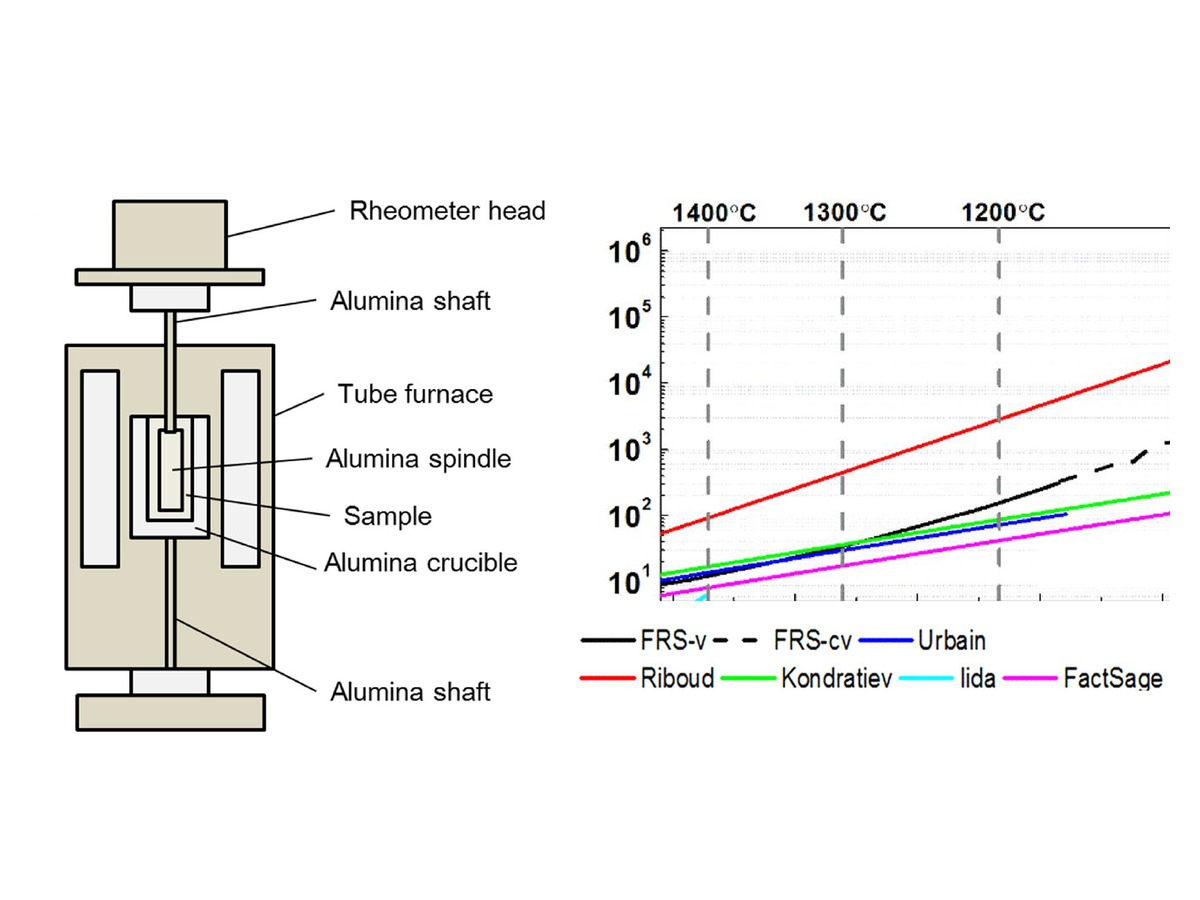
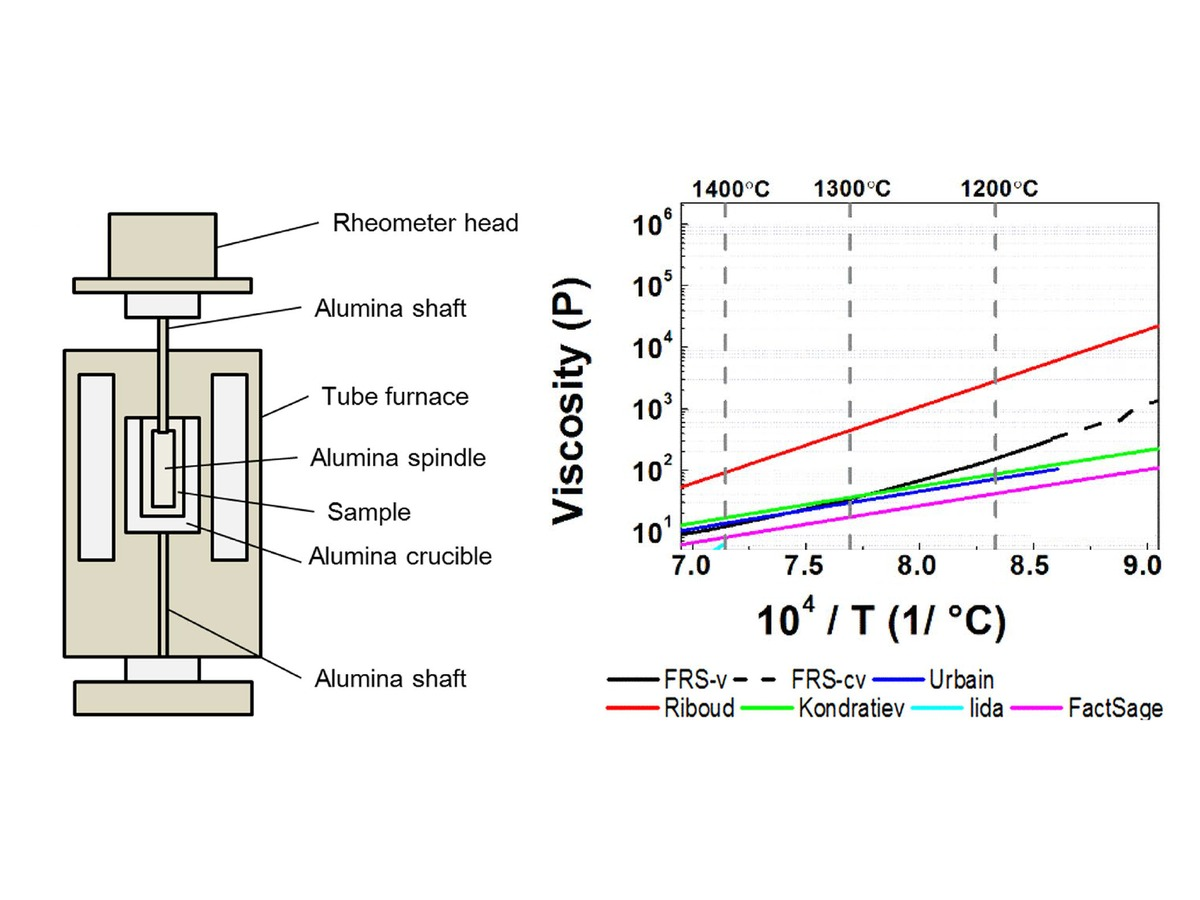
Add axis labels to publication thumbnail 16
Claude-Session: https://claude.ai/code/session_01C8otz9xRUX7zpZLP7SNUXe

diff --git a/index.html b/index.html
@@ -407,6 +407,6 @@
 <script id="imgdata" type="application/json">{"logo": "assets/img/logo.png", "concept": "assets/img/concept.jpg", "scope": "assets/img/scope.jpg?v=20261005", "pillars": "assets/img/pillars.jpg", "qr": "assets/img/qr.jpg", "pi": "assets/img/pi.jpg?v=20261010", "m_bincy": "assets/img/m_bincy.jpg", "m_ganji": "assets/img/m_ganji.jpg", "m_prabha": "assets/img/m_prabha.jpg", "m_ksw": "assets/img/m_ksw.jpg", "m_kjb": "assets/img/m_kjb.jpg", "m_khn": "assets/img/m_khn.jpg", "m_cde": "assets/img/m_cde.jpg", "m_smt": "assets/img/m_smt.jpg", "m_shj": "assets/img/m_shj.jpg", "m_ldg": "assets/img/m_ldg.jpg", "m_lsh": "assets/img/m_lsh.jpg", "m_jsw": "assets/img/m_jsw.jpg", "sw_ansys": "assets/img/sw_ansys.png", "sw_fluent": "assets/img/sw_fluent.png", "sw_comsol": "assets/img/sw_comsol.png", "sw_digimat": "assets/img/sw_digimat.png", "sw_geodict": "assets/img/sw_geodict.png", "sw_hepigans": "assets/img/sw_hepigans.png", "sw_msstudio": "assets/img/sw_msstudio.png", "sw_piano": "assets/img/sw_piano.png", "sw_vasp": "assets/img/sw_vasp.png", "n_grad": "assets/img/n_grad.jpg", "n_cover": "assets/img/n_cover.jpg", "n_plat": "assets/img/n_plat.jpg?v=20260905", "n_award": "assets/img/n_award.jpg", "n_geo": "assets/img/n_geo.jpg", "n_qd": "assets/img/n_qd.jpg", "n_marine": "assets/img/n_marine.jpg", "n_hydro": "assets/img/pub/20.jpg", "n_amds": "assets/img/n_amds.jpg", "n_etamds": "assets/img/n_etamds.jpg", "n_mico": "assets/img/n_mico.jpg", "n_halide": "assets/img/n_halide.jpg?v=20260905", "n_tribo": "assets/img/pub/13.jpg", "m_kgw": "assets/img/m_kgw.jpg", "m_gf": "assets/img/m_gf.jpg", "m_uk": "assets/img/m_uk.jpg"}</script>
 <script id="galdata" type="application/json">[{"id": "e2609b", "date": "2026.09.30–10.02", "title": "Korean Ceramic Society", "note": "추계학술대회", "cover": "assets/img/gallery/e2609b-cover.jpg", "shots": ["assets/img/gallery/e2609b-01.jpg", "assets/img/gallery/e2609b-02.jpg"]}, {"id": "e2609", "date": "2026.09.08", "title": "Welcome, Daeun!", "note": "최다은 연구원 환영회", "cover": "assets/img/gallery/e2609-cover.jpg", "shots": ["assets/img/gallery/e2609-01.jpg"]}, {"id": "e2606", "date": "2026.06.21–24", "title": "CIMTEC 2026 · 10th Forum on New Materials", "note": "Perugia, Italy", "cover": "assets/img/gallery/e2606-cover.jpg", "shots": ["assets/img/gallery/e2606-01.jpg", "assets/img/gallery/e2606-02.jpg", "assets/img/gallery/e2606-04.jpg", "assets/img/gallery/e2606-03.jpg"]}, {"id": "e2605b", "date": "2026.05.15", "title": "Teachers' Day", "note": "스승의 날", "cover": "assets/img/gallery/e2605b-cover.jpg", "shots": ["assets/img/gallery/e2605b-02.jpg"]}, {"id": "e2605a", "date": "2026.05.08", "title": "Homecoming", "note": "졸업생 방문", "cover": "assets/img/gallery/e2605a-cover.jpg", "shots": ["assets/img/gallery/e2605a-14.jpg"]}, {"id": "e2604", "date": "2026.04.08–10", "title": "Korean Ceramic Society", "note": "춘계학술대회", "cover": "assets/img/gallery/e2604-cover.jpg", "shots": ["assets/img/gallery/e2604-08.jpg", "assets/img/gallery/e2604-01.jpg", "assets/img/gallery/e2604-06.jpg"]}, {"id": "e2601", "date": "2026.01.09", "title": "Birthday", "note": "", "cover": "assets/img/gallery/e2601-cover.jpg", "shots": ["assets/img/gallery/e2601-01.jpg"]}, {"id": "e2511", "date": "2025.11.19–22", "title": "39th Korea–Japan Seminar on Ceramics", "note": "Oriental Hotel, Jeju", "cover": "assets/img/gallery/e2511-cover.jpg", "shots": ["assets/img/gallery/e2511-01.jpg", "assets/img/gallery/e2511-02.jpg", "assets/img/gallery/e2511-04.jpg"]}, {"id": "e2506", "date": "2025.06.02", "title": "Congrats, Donggeon!", "note": "이동건 취업 축하 파티", "cover": "assets/img/gallery/e2506-cover.jpg", "shots": ["assets/img/gallery/e2506-01.jpg"]}, {"id": "e2505", "date": "2025.05.15", "title": "Teachers' Day", "note": "스승의 날", "cover": "assets/img/gallery/e2505-cover.jpg", "shots": ["assets/img/gallery/e2505-03.jpg", "assets/img/gallery/e2505-05.jpg"]}, {"id": "e2503", "date": "2025.03.13", "title": "Group meeting", "note": "", "cover": "assets/img/gallery/e2503-cover.jpg", "shots": ["assets/img/gallery/e2503-01.jpg"]}, {"id": "e2502b", "date": "2025.02.27", "title": "Welcome Dr. Karan", "note": "환영회", "cover": "assets/img/gallery/e2502b-cover.jpg", "shots": ["assets/img/gallery/e2502b-01.jpg", "assets/img/gallery/e2502b-02.jpg"]}, {"id": "e2502a", "date": "2025.02.05–07", "title": "Nature Conference: Materials for AI", "note": "KAIST", "cover": "assets/img/gallery/e2502a-cover.jpg", "shots": ["assets/img/gallery/e2502a-01.jpg"]}, {"id": "e2501", "date": "2025.01.10", "title": "Birthday", "note": "", "cover": "assets/img/gallery/e2501-cover.jpg", "shots": ["assets/img/gallery/e2501-01.jpg"]}, {"id": "e2410", "date": "2024.10.16–18", "title": "Korean Ceramic Society", "note": "추계학술대회", "cover": "assets/img/gallery/e2410-cover.jpg", "shots": ["assets/img/gallery/e2410-04.jpg", "assets/img/gallery/e2410-01.jpg", "assets/img/gallery/e2410-02.jpg"]}, {"id": "e2409", "date": "2024.09.22–27", "title": "Multiscale Materials Modeling (MMM11)", "note": "", "cover": "assets/img/gallery/e2409-cover.jpg", "shots": ["assets/img/gallery/e2409-01.jpg", "assets/img/gallery/e2409-02.jpg", "assets/img/gallery/e2409-09.jpg", "assets/img/gallery/e2409-03.jpg", "assets/img/gallery/e2409-04.jpg", "assets/img/gallery/e2409-05.jpg", "assets/img/gallery/e2409-06.jpg"]}, {"id": "e2403", "date": "2024.03.15–16", "title": "Membership Training", "note": "Geoje", "cover": "assets/img/gallery/e2403-cover.jpg", "shots": ["assets/img/gallery/emt-01.jpg"]}, {"id": "e2305", "date": "2023.05.19–20", "title": "Membership Training", "note": "Changwon", "cover": "assets/img/gallery/e2305-cover.jpg", "shots": ["assets/img/gallery/emt-06.jpg", "assets/img/gallery/emt-02.jpg"]}]</script>
 <script id="pubdata" type="application/json">[{"id": 62, "date": "2026-10-01", "year": 2026, "title": "Flavonoid-coordinated NiCo bimetallic complex for interfacial electronic reconstruction and d-band engineering in BiVO4 toward sustainable solar water oxidation", "venue": "Journal of Energy Chemistry", "jif": 15.6, "q": "Q1", "cites": 0, "role": "co-author", "pos": [8, 10], "doi": "https://doi.org/10.1016/j.jechem.2026.06.082", "authors": [{"n": "Pratik Mane", "lab": false, "m": ""}, {"n": "Sampath Prabhakaran", "lab": true, "m": ""}, {"n": "Vishal Burungale", "lab": false, "m": ""}, {"n": "Hyojung Bae", "lab": false, "m": ""}, {"n": "Jiwon Heo", "lab": false, "m": ""}, {"n": "Chaewon Seong", "lab": false, "m": ""}, {"n": "Dhanashri Burungale", "lab": false, "m": ""}, {"n": "Hyunseok Ko", "lab": true, "m": ""}, {"n": "Sang Hyun Lee", "lab": false, "m": ""}, {"n": "Jun-Seok Ha", "lab": false, "m": ""}], "fig": 1}, {"id": 61, "date": "2026-08-25", "year": 2026, "title": "Effect of fumed silica content on the microstructural evolution and mechanical properties of metakaolin-based basalt fiber-reinforced geopolymer matrix composites", "venue": "Advanced Composite Materials", "jif": null, "q": null, "cites": 0, "role": "co-corresponding", "pos": [5, 5], "doi": "https://doi.org/10.1080/09243046.2026.2721819", "authors": [{"n": "Sanghun Lee", "lab": true, "m": "†"}, {"n": "Shinwoo Kang", "lab": true, "m": "†"}, {"n": "Hyung Mi Lim", "lab": false, "m": ""}, {"n": "Seog-Young Yoon", "lab": false, "m": "*"}, {"n": "Hyunseok Ko", "lab": true, "m": "*"}], "fig": 1}, {"id": 60, "date": "2026-11-01", "year": 2026, "title": "Composition and Processing Descriptors Govern Electroceramic Property Prediction: A Multi-Modal Interpretable Framework for BaTiO3-Based Ceramics", "venue": "Journal of Materiomics", "jif": 10.6, "q": "Q1", "cites": 0, "role": "co-corresponding", "pos": [6, 7], "doi": "https://doi.org/10.1016/j.jmat.2026.101282", "authors": [{"n": "Saman khalid", "lab": false, "m": "†"}, {"n": "Muhammad Faseeh", "lab": false, "m": "†"}, {"n": "Murad Ali Khan", "lab": false, "m": ""}, {"n": "Hyejeong Song", "lab": true, "m": ""}, {"n": "Syed Shehryar Ali Naqvi", "lab": false, "m": ""}, {"n": "Hyunseok Ko", "lab": true, "m": "*"}, {"n": "Do-Hyeun Kim", "lab": false, "m": "*"}], "fig": 1}, {"id": 59, "date": "2026-08-01", "year": 2026, "title": "Multi-model machine learning framework for predicting material properties of BaTiO3-based ferroelectric ceramics", "venue": "Materials & Design", "jif": 8.2, "q": "Q1", "cites": 0, "role": "co-corresponding", "pos": [6, 7], "doi": "https://doi.org/10.1016/j.matdes.2026.116418", "authors": [{"n": "Saman Khalid", "lab": false, "m": "†"}, {"n": "Muhammad Faseeh", "lab": false, "m": ""}, {"n": "Hyejeong Song", "lab": true, "m": ""}, {"n": "Murad Ali Khan", "lab": false, "m": ""}, {"n": "Syed Shehryar Ali Naqvi", "lab": false, "m": ""}, {"n": "Hyunseok Ko", "lab": true, "m": "*"}, {"n": "Do-Hyeon Kim", "lab": false, "m": "*"}], "fig": 1}, {"id": 58, "date": "2026-08-01", "year": 2026, "title": "Reinforced surface reactivity via incorporation of metal catalyst onto perovskite oxide for CO2 reduction", "venue": "Materials Today Energy", "jif": 8.1, "q": "Q1", "cites": 0, "role": "co-corresponding", "pos": [9, 10], "doi": "https://doi.org/10.1016/j.mtener.2026.102327", "authors": [{"n": "Sang Won Lee", "lab": false, "m": "†"}, {"n": "Sampath Prabhakaran", "lab": true, "m": "†"}, {"n": "Tae Heon Nam", "lab": false, "m": ""}, {"n": "Geunwoo Kim", "lab": true, "m": ""}, {"n": "Jae Hoon Lim", "lab": false, "m": ""}, {"n": "Hyejeong Song", "lab": true, "m": ""}, {"n": "Sungtae Park", "lab": false, "m": ""}, {"n": "Jong Hyeok Park", "lab": false, "m": "*"}, {"n": "Hyunseok Ko", "lab": true, "m": "*"}, {"n": "Tae Ho Shin", "lab": false, "m": "*"}], "fig": 1}, {"id": 57, "date": "2026-12-01", "year": 2026, "title": "High Polarity Doping of CoFe Layered Hydroxides: Bifunctional and Corrosion-Resistant Anion Exchange Membrane Seawater Electrolyzers", "venue": "Nano-Micro Letters", "jif": 38.5, "q": "Q1", "cites": 2, "role": "co-author", "pos": [6, 11], "doi": "https://doi.org/10.1007/s40820-026-02230-8", "authors": [{"n": "Anandhan Ayyappan Saj", "lab": false, "m": "†"}, {"n": "Sampath Prabhakaran", "lab": true, "m": "†"}, {"n": "Moshin Rasool", "lab": false, "m": ""}, {"n": "Kousik Bhunia", "lab": false, "m": ""}, {"n": "Dongho Lee", "lab": false, "m": ""}, {"n": "Hyunseok Ko", "lab": true, "m": ""}, {"n": "Tukaram D. Dongale", "lab": false, "m": ""}, {"n": "Muthukumar Perumalsamy", "lab": false, "m": ""}, {"n": "Arul Saravanan Raaju Sundhar", "lab": false, "m": ""}, {"n": "Do Hwan Kim", "lab": false, "m": "*"}, {"n": "Sang Jae Kim", "lab": false, "m": "*"}], "fig": 1}, {"id": 56, "date": "2026-08-01", "year": 2026, "title": "Low temperature/low-pressure fabrication of oxide/oxide ceramic matrix composites with excellent mechanical properties and stealth capabilities", "venue": "Advanced Composites and Hybrid Materials", "jif": 15.5, "q": "Q1", "cites": 0, "role": "co-author", "pos": [3, 7], "doi": "https://doi.org/10.1007/s42114-026-01816-5", "authors": [{"n": "Shanigaram Mallesh", "lab": false, "m": "†"}, {"n": "Dong-Jun Hong", "lab": false, "m": ""}, {"n": "Hyunseok Ko", "lab": true, "m": ""}, {"n": "Sanghun Lee", "lab": true, "m": ""}, {"n": "Chae-Hwan Lim", "lab": false, "m": ""}, {"n": "Won-Ho Choi", "lab": false, "m": ""}, {"n": "Young-Woo Nam", "lab": false, "m": "*"}], "fig": 1}, {"id": 55, "date": "2026-06-17", "year": 2026, "title": "Mechanistic insights into vacancy-driven activation and dissociation of hydrogen peroxide on Ti3C2O2 MXene in water", "venue": "Nanoscale Advances", "jif": 6.3, "q": "Q2", "cites": 0, "role": "corresponding", "pos": [2, 2], "doi": "https://doi.org/10.1039/d5na00962f", "authors": [{"n": "Masoud Darvish Ganji", "lab": true, "m": "†"}, {"n": "Hyunseok Ko", "lab": true, "m": "*"}], "fig": 1, "sel": 1}, {"id": 54, "date": "2026-06-01", "year": 2026, "title": "Bridging the theoretical gap between electronic structure and dynamic stability: An integrated computational framework for ZnO sheet-based chemical warfare agent sensors", "venue": "Surfaces and Interfaces", "jif": 6.0, "q": "Q2", "cites": 5, "role": "co-corresponding", "pos": [3, 3], "doi": "https://doi.org/10.1016/j.surfin.2026.109196", "authors": [{"n": "Masoud Darvish Ganji", "lab": true, "m": "†"}, {"n": "Mahyar Rezvani", "lab": false, "m": ""}, {"n": "Hyunseok Ko", "lab": true, "m": "*"}], "fig": 1}, {"id": 53, "date": "2026-07-01", "year": 2026, "title": "Numerical analysis and optimization of horizontal MOCVD reactor design parameters for uniform GaN thin films", "venue": "Journal of the Korean Ceramic Society", "jif": 4.4, "q": "Q1", "cites": 0, "role": "co-corresponding", "pos": [3, 3], "doi": "https://doi.org/10.1007/s43207-026-00602-9", "authors": [{"n": "Haneul Kim", "lab": true, "m": "†"}, {"n": "Roy Byung Kyu Chung", "lab": false, "m": ""}, {"n": "Hyunseok Ko", "lab": true, "m": "*"}], "fig": 1}, {"id": 52, "date": "2026-03-01", "year": 2026, "title": "Processing-structure-property prediction in polycrystalline BaTiO3 ceramics using experimental and computational data fusion", "venue": "Materials Today Communications", "jif": 4.9, "q": "Q2", "cites": 1, "role": "co-corresponding", "pos": [6, 7], "doi": "https://doi.org/10.1016/j.mtcomm.2026.115004", "authors": [{"n": "Muhammad Faseeh", "lab": false, "m": "†"}, {"n": "Hyejeong Song", "lab": true, "m": ""}, {"n": "Murad Ali Khan", "lab": false, "m": ""}, {"n": "Syed Shehryar Ali Naqvi", "lab": false, "m": ""}, {"n": "Saman Khalid", "lab": false, "m": ""}, {"n": "Hyunseok Ko", "lab": true, "m": "*"}, {"n": "Do-Hyeun Kim", "lab": false, "m": "*"}], "fig": 1}, {"id": 51, "date": "2026-03-01", "year": 2026, "title": "Hierarchically structured Cu-Fe-S nanomaterials as dual-functional catalysts for enhanced hydrogen evolution and photocatalytic dye degradation", "venue": "Journal of Alloys and Compounds", "jif": 6.7, "q": "Q2", "cites": 0, "role": "co-corresponding", "pos": [7, 8], "doi": "https://doi.org/10.1016/j.jallcom.2026.187031", "authors": [{"n": "C.K. Sushma", "lab": false, "m": "†"}, {"n": "Hyeon Woo Kim", "lab": false, "m": ""}, {"n": "Maheshkumar V", "lab": false, "m": ""}, {"n": "Anju Sebastian", "lab": false, "m": ""}, {"n": "Masoud Darvish Ganji", "lab": true, "m": ""}, {"n": "Sung Beom Cho", "lab": false, "m": ""}, {"n": "Hyunseok Ko", "lab": true, "m": "*"}, {"n": "Vidhya Bhojan", "lab": false, "m": "*"}], "fig": 1}, {"id": 50, "date": "2026-02-01", "year": 2026, "title": "First-Principles Models of Triboelectrification", "venue": "Small Methods", "jif": 8.7, "q": "Q1", "cites": 0, "role": "co-author", "pos": [3, 6], "doi": "https://doi.org/10.1002/smtd.202501782", "authors": [{"n": "Giulio Fatti", "lab": true, "m": "†"}, {"n": "John Cavin", "lab": false, "m": ""}, {"n": "Hyunseok Ko", "lab": true, "m": ""}, {"n": "Rohan Mishra", "lab": false, "m": ""}, {"n": "Daniele Dini", "lab": false, "m": ""}, {"n": "Sung Beom Cho", "lab": false, "m": ""}], "fig": 1}, {"id": 49, "date": "2026-01-02", "year": 2026, "title": "Toward efficient dielectric material discovery: a comparative evaluation of Transformer and AutoML-based inverse learning", "venue": "Journal of Asian Ceramic Societies", "jif": 1.8, "q": "Q3", "cites": 1, "role": "co-corresponding", "pos": [5, 6], "doi": "https://doi.org/10.1080/21870764.2025.2570561", "authors": [{"n": "Murad Ali Khan", "lab": false, "m": "†"}, {"n": "Hyejeong Song", "lab": true, "m": ""}, {"n": "Syed Shehryar Ali Naqvi", "lab": false, "m": ""}, {"n": "Muhammad Faseeh", "lab": false, "m": ""}, {"n": "Hyunseok Ko", "lab": true, "m": "*"}, {"n": "Do-Hyeun Kim", "lab": false, "m": "*"}], "fig": 1}, {"id": 48, "date": "2025-11-01", "year": 2025, "title": "Boosting the efficiency and stability of cerium-doped trimetallic phosphides for overall water splitting", "venue": "Chemical Engineering Journal", "jif": 12.5, "q": "Q1", "cites": 5, "role": "co-author", "pos": [5, 8], "doi": "https://doi.org/10.1016/j.cej.2025.169404", "authors": [{"n": "Mai Mai", "lab": false, "m": "†"}, {"n": "Sampath Prabhakaran", "lab": true, "m": ""}, {"n": "Huyen Thi Dao", "lab": false, "m": ""}, {"n": "Lan Nguyen", "lab": false, "m": ""}, {"n": "Hyunseok Ko", "lab": true, "m": ""}, {"n": "Young Sun Mok", "lab": false, "m": ""}, {"n": "Van Hien Hoa", "lab": false, "m": "*"}, {"n": "Do Hwan Kim", "lab": false, "m": "*"}], "fig": 1}, {"id": 47, "date": "2025-10-28", "year": 2025, "title": "Engineering multifunctionality in gallium oxide: unveiling novel structural, electronic, and opto-mechanical attributes of gadolinium-doped β-Ga2O3 through advanced first-principles design", "venue": "RSC Advances", "jif": 6.1, "q": "Q2", "cites": 4, "role": "corresponding", "pos": [2, 2], "doi": "https://doi.org/10.1039/d5ra05763a", "authors": [{"n": "Masoud Darvish Ganji", "lab": true, "m": "†"}, {"n": "Hyunseok Ko", "lab": true, "m": "*"}], "fig": 1}, {"id": 46, "date": "2025-09-01", "year": 2025, "title": "Rational material design of chemically inert oxide anode coating layers for lithium metal and all-solid-state batteries", "venue": "Applied Surface Science Advances", "jif": 10.0, "q": "Q1", "cites": 0, "role": "co-author", "pos": [6, 10], "doi": "https://doi.org/10.1016/j.apsadv.2025.100842", "authors": [{"n": "Dong Won Jeon", "lab": false, "m": "†"}, {"n": "Wootaek Choi", "lab": false, "m": ""}, {"n": "Jun Hyuk Kang", "lab": false, "m": ""}, {"n": "Hyeon Woo Kim", "lab": false, "m": ""}, {"n": "Min Sung Kang", "lab": false, "m": ""}, {"n": "Woongchan Kim", "lab": false, "m": ""}, {"n": "Han Uk Lee", "lab": false, "m": ""}, {"n": "Hyunseok Ko", "lab": true, "m": ""}, {"n": "Patrick Joohyun Kim", "lab": false, "m": "*"}, {"n": "Sung Beom Cho", "lab": false, "m": "*"}], "fig": 1}, {"id": 45, "date": "2025-06-30", "year": 2025, "title": "초저궤도 우주환경에서 자기 강화 원자산소 저항 산화층이 형성된 산화물/산화물 세라믹 복합재 구조의 손상 거동 평가", "venue": "복합재료 (Composites Research), 한국복합재료학회", "jif": null, "q": null, "cites": 0, "role": "co-author", "pos": [6, 8], "doi": "https://doi.org/10.7234/composres.2025.38.3.333", "authors": [{"n": "Chae-Hwan Lim", "lab": false, "m": "†"}, {"n": "Dong-Jun Hong", "lab": false, "m": ""}, {"n": "Hanna Jang", "lab": false, "m": ""}, {"n": "Seung-Hyeon Kang", "lab": false, "m": ""}, {"n": "Sang-Hoon Lee", "lab": true, "m": ""}, {"n": "Hyunseok Ko", "lab": true, "m": ""}, {"n": "Won-Ho Choi", "lab": false, "m": ""}, {"n": "Young-Woo Nam", "lab": false, "m": ""}], "fig": 1}, {"id": 44, "date": "2025-09-01", "year": 2025, "title": "First-principles investigation of Mo-doped β-Ga2O3: Prospects for visible light technologies and spintronics", "venue": "Physica B: Condensed Matter", "jif": 3.2, "q": "Q2", "cites": 8, "role": "corresponding", "pos": [5, 5], "doi": "https://doi.org/10.1016/j.physb.2025.417334", "authors": [{"n": "Masoud Darvish Ganji", "lab": true, "m": "†"}, {"n": "Hyejeong Song", "lab": true, "m": ""}, {"n": "Ji-Hyeon Park", "lab": false, "m": ""}, {"n": "Dae-Woo Jeon", "lab": false, "m": ""}, {"n": "Hyunseok Ko", "lab": true, "m": "*"}], "fig": 1}, {"id": 43, "date": "2025-03-12", "year": 2025, "title": "Accentuating the ambient curing behavior of geopolymers: metamodel-guided optimization for fast-curing geopolymers with high flexural strength", "venue": "Digital Discovery", "jif": 7.1, "q": "Q1", "cites": 4, "role": "corresponding", "pos": [5, 6], "doi": "https://doi.org/10.1039/d4dd00217b", "authors": [{"n": "Kyungwon Kim", "lab": true, "m": "†"}, {"n": "Hyejeong Song", "lab": true, "m": "†"}, {"n": "Sanghun Lee", "lab": true, "m": ""}, {"n": "Hyung-Kyu Cho", "lab": false, "m": ""}, {"n": "Hyung-Mi Lim", "lab": false, "m": ""}, {"n": "Hyunseok Ko", "lab": true, "m": "*"}], "fig": 1}, {"id": 42, "date": "2025-01-14", "year": 2025, "title": "First-Principle Insights into Positive Triboelectrification of Polyoxymethylene Through Homolytic Bond Rupture", "venue": "Nanoenergy Advances", "jif": 4.2, "q": "Q3", "cites": 2, "role": "co-author", "pos": [2, 3], "doi": "https://doi.org/10.3390/nanoenergyadv5010001", "authors": [{"n": "Giulio Fatti", "lab": true, "m": "†*"}, {"n": "Hyunseok Ko", "lab": true, "m": ""}, {"n": "Sung Beom Cho", "lab": false, "m": ""}], "fig": 1}, {"id": 41, "date": "2025-02-01", "year": 2025, "title": "Ultrahigh-gain colloidal quantum dot infrared avalanche photodetectors", "venue": "Nature Nanotechnology", "jif": 37.5, "q": "Q1", "cites": 47, "role": "first", "pos": [3, 9], "doi": "https://doi.org/10.1038/s41565-024-01831-x", "authors": [{"n": "Byeongsu Kim", "lab": false, "m": "†"}, {"n": "Sang Yeon Lee", "lab": false, "m": "†"}, {"n": "Hyunseok Ko", "lab": true, "m": "†"}, {"n": "Jihyung Lee", "lab": false, "m": ""}, {"n": "Hyejeong Song", "lab": true, "m": ""}, {"n": "Sungjun Cho", "lab": false, "m": ""}, {"n": "Min-Ho Lee", "lab": false, "m": ""}, {"n": "Jung-Yong Lee", "lab": false, "m": ""}], "fig": 1, "sel": 1}, {"id": 40, "date": "2025-04-01", "year": 2025, "title": "Unveiling the Aluminum Doping Effects of In-Situ Transmogrified Dual-LDH Heterostructure and Its Fermi-Level Alignment to Water Splitting Potentials", "venue": "Advanced Energy Materials", "jif": 25.5, "q": "Q1", "cites": 39, "role": "co-author", "pos": [10, 11], "doi": "https://doi.org/10.1002/aenm.202403889", "authors": [{"n": "Nandapriya Manivelan", "lab": false, "m": "†"}, {"n": "Junji Piao", "lab": false, "m": ""}, {"n": "Jaekook Kim", "lab": false, "m": ""}, {"n": "Seunghwa Lee", "lab": false, "m": ""}, {"n": "Youngji Kim", "lab": false, "m": ""}, {"n": "Vaiyapuri Soundharrajan", "lab": false, "m": ""}, {"n": "Min-Kyu Son", "lab": false, "m": ""}, {"n": "Amir Humayun", "lab": false, "m": ""}, {"n": "Masoud Darvish Ganji", "lab": true, "m": ""}, {"n": "Hyunseok Ko", "lab": true, "m": ""}, {"n": "Kandasamy Prabakar", "lab": false, "m": ""}], "fig": 1}, {"id": 39, "date": "2025-01-01", "year": 2025, "title": "Machine learning-enhanced design of lead-free halide perovskite materials using density functional theory", "venue": "Current Applied Physics", "jif": 2.8, "q": "Q3", "cites": 7, "role": "co-corresponding", "pos": null, "doi": "https://doi.org/10.1016/j.cap.2024.10.012", "authors": [{"n": "Upendra Kumar", "lab": true, "m": "†"}, {"n": "Hyeon Woo Kim", "lab": false, "m": "†"}, {"n": "Gyanendra Kumar Maurya", "lab": false, "m": ""}, {"n": "Bincy Babu Raj", "lab": true, "m": ""}, {"n": "Sobhit Singh", "lab": false, "m": ""}, {"n": "Ajay Kumar Kushwaha", "lab": false, "m": ""}, {"n": "Sung Beom Cho", "lab": false, "m": "*"}, {"n": "Hyunseok Ko", "lab": true, "m": "*"}], "fig": 1}, {"id": 38, "date": "2024-11-01", "year": 2024, "title": "Suppressing Hole Accumulation Through Sub-Nanometer Dipole Interfaces in Hybrid Perovskite/Organic Solar Cells for Boosting Near-Infrared Photon Harvesting", "venue": "Advanced Materials", "jif": 29.1, "q": "Q1", "cites": 22, "role": "co-author", "pos": [9, 13], "doi": "https://doi.org/10.1002/adma.202411015", "authors": [{"n": "Min-Ho Lee", "lab": false, "m": "†"}, {"n": "Min Seok Kim", "lab": false, "m": ""}, {"n": "Yu Jin Lee", "lab": false, "m": ""}, {"n": "Byeongsu Kim", "lab": false, "m": ""}, {"n": "Ju-Hyeon Kim", "lab": false, "m": ""}, {"n": "Chungryeol Lee", "lab": false, "m": ""}, {"n": "Jihyung Lee", "lab": false, "m": ""}, {"n": "Dong-Jun Kim", "lab": false, "m": ""}, {"n": "Hyunseok Ko", "lab": true, "m": ""}, {"n": "Masoud Darvish Ganji", "lab": true, "m": ""}, {"n": "Kwanghee Lee", "lab": false, "m": ""}, {"n": "Woojae Kim", "lab": false, "m": ""}, {"n": "Jung-Yong Lee", "lab": false, "m": ""}], "fig": 1}, {"id": 37, "date": "2024-12-10", "year": 2024, "title": "Overcoming the limitations of atomic-scale simulations on semiconductor catalysis with changing Fermi level and surface treatment", "venue": "Journal of Materials Chemistry A", "jif": 9.2, "q": "Q1", "cites": 4, "role": "co-corresponding", "pos": [12, 14], "doi": "https://doi.org/10.1039/d4ta03595j", "authors": [{"n": "Seulgi ji", "lab": false, "m": "†"}, {"n": "Dong Won Jeon", "lab": false, "m": ""}, {"n": "Junghyun Choi", "lab": false, "m": ""}, {"n": "Haneol Cho", "lab": false, "m": ""}, {"n": "Bo-In Park", "lab": false, "m": ""}, {"n": "Ilpyo Roh", "lab": false, "m": ""}, {"n": "Hyungil Choi", "lab": false, "m": ""}, {"n": "Chansoo Kim", "lab": false, "m": ""}, {"n": "Jung Kyu Kim", "lab": false, "m": ""}, {"n": "Uk sim", "lab": false, "m": ""}, {"n": "Danlei Li", "lab": false, "m": ""}, {"n": "Hyunseok Ko", "lab": true, "m": "*"}, {"n": "Sung Beom Cho", "lab": false, "m": "*"}, {"n": "Heechae Choi", "lab": false, "m": "*"}], "fig": 1, "sel": 1}, {"id": 36, "date": "2024-11-01", "year": 2024, "title": "Multifaceted investigation into the impact of Ga substitution for Al in V2MnAl inverse Heusler alloys", "venue": "Physica B: Condensed Matter", "jif": 3.2, "q": "Q2", "cites": 3, "role": "co-corresponding", "pos": [4, 5], "doi": "https://doi.org/10.1016/j.physb.2024.416345", "authors": [{"n": "Shashank Shekhar Mishra", "lab": false, "m": "†"}, {"n": "Upendra Kumar", "lab": true, "m": "†"}, {"n": "Bincy Babu Raj", "lab": true, "m": ""}, {"n": "Hyunseok Ko", "lab": true, "m": "*"}, {"n": "Thakur Prasad Yadav", "lab": false, "m": "*"}], "fig": 1}, {"id": 35, "date": "2024-05-08", "year": 2024, "title": "Unravelling performance of honeycomb structures as drug delivery systems for the isoniazid drug using DFT-D3 correction dispersion and molecular dynamic simulations", "venue": "Physical Chemistry Chemical Physics", "jif": 3.0, "q": "Q3", "cites": 50, "role": "co-author", "pos": [2, 8], "doi": "https://doi.org/10.1039/d3cp05457h", "authors": [{"n": "Masoud Darvish Ganji", "lab": true, "m": "†"}, {"n": "Hyunseok Ko", "lab": true, "m": ""}, {"n": "Saeed Jamehbozorgi", "lab": false, "m": ""}, {"n": "Mahmood Tajbakhsh", "lab": false, "m": ""}, {"n": "Sepideh Tanreh", "lab": false, "m": ""}, {"n": "Rosa Pahlavan Nejad", "lab": false, "m": ""}, {"n": "Mahboubeh Sepahvand", "lab": false, "m": ""}, {"n": "Mahyar Rezvani", "lab": false, "m": "*"}], "fig": 1}, {"id": 34, "date": "2024-05-01", "year": 2024, "title": "Morphological diversity in directionally-solidified microstructures with varying anisotropy of solid-liquid interfacial free energy", "venue": "Journal of Materials Research and Technology", "jif": 7.3, "q": "Q1", "cites": 6, "role": "co-corresponding", "pos": [4, 5], "doi": "https://doi.org/10.1016/j.jmrt.2024.04.126", "authors": [{"n": "Geunwoo Kim", "lab": true, "m": "†"}, {"n": "Tomohiro Takaki", "lab": false, "m": ""}, {"n": "Yasushi Shibuta", "lab": false, "m": ""}, {"n": "Hyunseok Ko", "lab": true, "m": "*"}, {"n": "Munekazu Ohno", "lab": false, "m": "*"}], "fig": 1}, {"id": 33, "date": "2024-01-01", "year": 2024, "title": "Designing Pr-based advanced photoluminescent materials using machine learning and density functional theory", "venue": "Journal of Materials Science", "jif": 4.4, "q": "Q2", "cites": 5, "role": "corresponding", "pos": [5, 5], "doi": "https://doi.org/10.1007/s10853-023-09232-6", "authors": [{"n": "Upendra Kumar", "lab": true, "m": "†"}, {"n": "Hyeon Woo Kim", "lab": false, "m": ""}, {"n": "Sobhit Singh", "lab": false, "m": ""}, {"n": "Sung Beom Cho", "lab": false, "m": "*"}, {"n": "Hyunseok Ko", "lab": true, "m": "*"}], "fig": 1}, {"id": 32, "date": "2024-04-01", "year": 2024, "title": "Sequential doping strategy in rutile TiO2 nanorod for high performance photoanode", "venue": "Applied Surface Science", "jif": 6.6, "q": "Q1", "cites": 6, "role": "co-corresponding", "pos": [10, 11], "doi": "https://doi.org/10.1016/j.apsusc.2023.159213", "authors": [{"n": "Sang Yeon Lee", "lab": false, "m": "†"}, {"n": "Young Jae Lee", "lab": false, "m": ""}, {"n": "Il-han Yoo", "lab": false, "m": ""}, {"n": "Hyeon Woo Kim", "lab": false, "m": ""}, {"n": "Hyejeong Song", "lab": true, "m": ""}, {"n": "Soo Won Heo", "lab": false, "m": ""}, {"n": "Shankara S Kalanur", "lab": false, "m": ""}, {"n": "Gourab Mohapatra", "lab": false, "m": ""}, {"n": "Hyunseok Ko", "lab": true, "m": "*"}, {"n": "Hyungtak Seo", "lab": false, "m": "*"}], "fig": 1}, {"id": 31, "date": "2023-12-01", "year": 2023, "title": "Radar absorption characteristics of ceramic oxide fiber/aluminosilicate-sendust composite structure at ultrahigh temperatures", "venue": "Journal of Alloys and Compounds", "jif": 6.7, "q": "Q1", "cites": 24, "role": "co-author", "pos": [3, 7], "doi": "https://doi.org/10.1016/j.jallcom.2023.171979", "authors": [{"n": "Shanigaram Mallesh", "lab": false, "m": "†"}, {"n": "Dongyoung Shim", "lab": false, "m": "†"}, {"n": "Hyunseok Ko", "lab": true, "m": ""}, {"n": "Younghoon Kang", "lab": false, "m": ""}, {"n": "Dongjun Hong", "lab": false, "m": ""}, {"n": "Byeongsu Kwak", "lab": false, "m": ""}, {"n": "Youngwoo Nam", "lab": false, "m": ""}], "fig": 1}, {"id": 30, "date": "2023-11-24", "year": 2023, "title": "Explainable AI for Material Property Prediction Based on Energy Cloud: A Shapley-Driven Approach", "venue": "Materials", "jif": 3.7, "q": "Q2", "cites": 28, "role": "co-author", "pos": [4, 5], "doi": "https://doi.org/10.3390/ma16237322", "authors": [{"n": "Faiza Qayyum", "lab": false, "m": "†"}, {"n": "Murad Ali Khan", "lab": false, "m": ""}, {"n": "Do-Hyeun Kim", "lab": false, "m": "*"}, {"n": "Hyunseok Ko", "lab": true, "m": ""}, {"n": "Ga-Ae Ryu", "lab": false, "m": "*"}], "fig": 1}, {"id": 29, "date": "2023-10-01", "year": 2023, "title": "Uncertainty and Irreproducibility of Triboelectricity Based on Interface Mechanochemistry", "venue": "Physical Review Letters", "jif": 9.4, "q": "Q1", "cites": 21, "role": "co-author", "pos": [9, 11], "doi": "https://doi.org/10.1103/physrevlett.131.166201", "authors": [{"n": "Giulio Fatti", "lab": true, "m": "†"}, {"n": "Hyunseung Kim", "lab": false, "m": ""}, {"n": "Changwan Sohn", "lab": false, "m": ""}, {"n": "Minah Park", "lab": false, "m": ""}, {"n": "Yeong-won Lim", "lab": false, "m": ""}, {"n": "Zhuohan Li", "lab": false, "m": ""}, {"n": "Kwi-Il Park", "lab": false, "m": ""}, {"n": "Izabela Szlufarska", "lab": false, "m": ""}, {"n": "Hyunseok Ko", "lab": true, "m": ""}, {"n": "Chang Kyu Jeong", "lab": false, "m": ""}, {"n": "Sung Beom Cho", "lab": false, "m": ""}], "fig": 1}, {"id": 28, "date": "2023-10-01", "year": 2023, "title": "A versatile strategy for hybridizing small experimental and large simulation data: A case for ceramic tape-casting process", "venue": "Materials & Design", "jif": 8.2, "q": "Q1", "cites": 6, "role": "first", "pos": [2, 8], "doi": "https://doi.org/10.1016/j.matdes.2023.112357", "authors": [{"n": "Jeong-Hun Kim", "lab": false, "m": "†"}, {"n": "Hyunseok Ko", "lab": true, "m": "†"}, {"n": "Dong-Hun Yeo", "lab": false, "m": ""}, {"n": "Zeehoon Park", "lab": false, "m": ""}, {"n": "Upendra Kumar", "lab": true, "m": ""}, {"n": "Kwan-Hee Yoo", "lab": false, "m": ""}, {"n": "Aziz Nasridinov", "lab": false, "m": ""}, {"n": "Sung Beom Cho", "lab": false, "m": ""}], "fig": 1, "sel": 1}, {"id": 27, "date": "2023-11-01", "year": 2023, "title": "Rational Design Strategy for Triboelectric Nanogenerators Based on Electron Back Flow and Ionic Defects: The Case of Polytetrafluoroethylene", "venue": "Advanced Electronic Materials", "jif": 5.9, "q": "Q1", "cites": 15, "role": "co-corresponding", "pos": [3, 11], "doi": "https://doi.org/10.1002/aelm.202300333", "authors": [{"n": "Giulio Fatti", "lab": true, "m": "†*"}, {"n": "Alessandra Ciniero", "lab": false, "m": ""}, {"n": "Hyunseok Ko", "lab": true, "m": "*"}, {"n": "Han Uk Lee", "lab": false, "m": ""}, {"n": "Yujin Na", "lab": false, "m": ""}, {"n": "Chang Kyu Jeong", "lab": false, "m": ""}, {"n": "Sang-geul Lee", "lab": false, "m": ""}, {"n": "Dongyub Kwak", "lab": false, "m": ""}, {"n": "Kwi-Il Park", "lab": false, "m": "*"}, {"n": "Sung Beom Cho", "lab": false, "m": "*"}, {"n": "Daniele Dini", "lab": false, "m": ""}], "fig": 1}, {"id": 26, "date": "2023-09-01", "year": 2023, "title": "Isovalent multi-component doping strategy for stabilizing cubic-Li7La3Zr2O12 with excellent Li mobility", "venue": "Chemical Engineering Journal", "jif": 12.5, "q": "Q1", "cites": 21, "role": "co-author", "pos": [4, 9], "doi": "https://doi.org/10.1016/j.cej.2023.144552", "authors": [{"n": "Han Uk Lee", "lab": false, "m": "†"}, {"n": "SeungminHan", "lab": false, "m": ""}, {"n": "Dong Geon Lee", "lab": true, "m": ""}, {"n": "Hyunseok Ko", "lab": true, "m": ""}, {"n": "Juhyun Lee", "lab": false, "m": ""}, {"n": "Won Bin Im", "lab": false, "m": ""}, {"n": "Taeseup Song", "lab": false, "m": ""}, {"n": "Junghyun Choi", "lab": false, "m": "*"}, {"n": "Sung Beom Cho", "lab": false, "m": "*"}], "fig": 1}, {"id": 25, "date": "2023-08-31", "year": 2023, "title": "Understanding the Electrokinetic Role of Ions on Electricity Generation in Droplet-Based Hydrovoltaic Systems", "venue": "Journal of Physical Chemistry C", "jif": 3.4, "q": "Q3", "cites": 15, "role": "co-author", "pos": [2, 4], "doi": "https://doi.org/10.1021/acs.jpcc.3c03183", "authors": [{"n": "Min Sung Kang", "lab": false, "m": "†"}, {"n": "Hyunseok Ko", "lab": true, "m": ""}, {"n": "Seokhee Lee", "lab": false, "m": "*"}, {"n": "Sung Beom Cho", "lab": false, "m": "*"}], "fig": 1}, {"id": 24, "date": "2023-08-01", "year": 2023, "title": "Dispersion control via crystal-phase modulation of yttrium-doped ZrO2 nanoparticle sol", "venue": "Colloids and Surfaces A: Physicochemical and Engineering Aspects", "jif": 5.4, "q": "Q2", "cites": 10, "role": "first", "pos": [2, 5], "doi": "https://doi.org/10.1016/j.colsurfa.2023.131476", "authors": [{"n": "Hee-Seon Lee", "lab": false, "m": "†"}, {"n": "Hyunseok Ko", "lab": true, "m": "†"}, {"n": "Kyuyoung Heo", "lab": false, "m": ""}, {"n": "Heesoo Lee", "lab": false, "m": ""}, {"n": "Hyung Mi Lim", "lab": false, "m": ""}], "fig": 1}, {"id": 23, "date": "2023-08-11", "year": 2023, "title": "High-Throughput Screening on Halide Perovskite Derivatives and Rational Design of Cs3LuCl6", "venue": "ACS Energy Letters", "jif": 17.5, "q": "Q1", "cites": 27, "role": "first", "pos": [3, 10], "doi": "https://doi.org/10.1021/acsenergylett.3c01207", "authors": [{"n": "Hyeon Woo Kim", "lab": false, "m": "†"}, {"n": "Joo Hyeong Han", "lab": false, "m": "†"}, {"n": "Hyunseok Ko", "lab": true, "m": "†"}, {"n": "Tuhin Samanta", "lab": false, "m": ""}, {"n": "Dong Geon Lee", "lab": true, "m": ""}, {"n": "Dong Won Jeon", "lab": false, "m": ""}, {"n": "Woongchan Kim", "lab": false, "m": ""}, {"n": "Yong-Chae Chung", "lab": false, "m": ""}, {"n": "Won Bin Im", "lab": false, "m": "*"}, {"n": "Sung Beom Cho", "lab": false, "m": "*"}], "fig": 1}, {"id": 22, "date": "2023-05-01", "year": 2023, "title": "Fabrication of thin and lightweight cobalt-coated quartz fiber/aluminosilicate composites for high-temperature microwave absorption", "venue": "Ceramics International", "jif": 6.0, "q": "Q1", "cites": 27, "role": "co-author", "pos": [3, 7], "doi": "https://doi.org/10.1016/j.ceramint.2022.12.235", "authors": [{"n": "Wonwoo Choi", "lab": false, "m": "†"}, {"n": "Shanigaram Mallesh", "lab": false, "m": "†"}, {"n": "Hyunseok Ko", "lab": true, "m": ""}, {"n": "Minjun Kim", "lab": false, "m": ""}, {"n": "Joonhyung Shin", "lab": false, "m": ""}, {"n": "Kyungwon Kim", "lab": true, "m": ""}, {"n": "Youngwoo Nam", "lab": false, "m": ""}], "fig": 1}, {"id": 21, "date": "2023-04-01", "year": 2023, "title": "Modulation of Molybdenum oxidation state via Catalytic-oxidation", "venue": "Applied Surface Science", "jif": 6.6, "q": "Q1", "cites": 14, "role": "co-author", "pos": [3, 8], "doi": "https://doi.org/10.1016/j.apsusc.2023.156330", "authors": [{"n": "Kangchun Lee", "lab": false, "m": "†"}, {"n": "Seho Sun", "lab": false, "m": ""}, {"n": "Hyunseok Ko", "lab": true, "m": ""}, {"n": "Sung Beom Cho", "lab": false, "m": ""}, {"n": "Ganggyu Lee", "lab": false, "m": ""}, {"n": "Dongsoo Lee", "lab": false, "m": ""}, {"n": "Taeseup Song", "lab": false, "m": ""}, {"n": "Ungyu Paik", "lab": false, "m": ""}], "fig": 1}, {"id": 20, "date": "2023-01-17", "year": 2023, "title": "Why does water in porous carbon generate electricity? Electrokinetic role of protons in a water droplet-induced hydrovoltaic system of hydrophilic porous carbon", "venue": "Journal of Materials Chemistry A", "jif": 9.2, "q": "Q1", "cites": 33, "role": "first", "pos": [1, 8], "doi": "https://doi.org/10.1039/d2ta05281d", "authors": [{"n": "Hyunseok Ko", "lab": true, "m": "†"}, {"n": "Wonkyeong Son", "lab": false, "m": ""}, {"n": "Min Sung Kang", "lab": false, "m": ""}, {"n": "Han Uk Lee", "lab": false, "m": ""}, {"n": "Chan-Yeup Chung", "lab": false, "m": ""}, {"n": "Seungwu Han", "lab": false, "m": ""}, {"n": "Changsoon Choi", "lab": false, "m": ""}, {"n": "Sung Beom Cho", "lab": false, "m": "*"}], "fig": 1, "sel": 1}, {"id": 19, "date": "2022-09-30", "year": 2022, "title": "Establishment of a BaTiO3-based Computational Science Platform to Predict Multi-component Properties", "venue": "JOURNAL OF SENSOR SCIENCE AND TECHNOLOGY", "jif": null, "q": null, "cites": null, "role": "co-corresponding", "pos": [4, 5], "doi": "https://doi.org/10.46670/jsst.2022.31.5.318", "authors": [{"n": "Dong Geon Lee", "lab": true, "m": "†"}, {"n": "Han Uk  Lee", "lab": false, "m": ""}, {"n": "Won Bin Im", "lab": false, "m": ""}, {"n": "Hyunseok Ko", "lab": true, "m": "*"}, {"n": "Sung Beom Cho", "lab": false, "m": "*"}], "fig": 1}, {"id": 18, "date": "2022-06-28", "year": 2022, "title": "Fast-curing geopolymer foams with an enhanced pore homogeneity derived by hydrogen peroxide and sodium dodecyl sulfate surfactant", "venue": "Minerals", "jif": null, "q": null, "cites": 21, "role": "corresponding", "pos": [4, 4], "doi": "https://doi.org/10.3390/min12070821", "authors": [{"n": "Kyungwon Kim", "lab": true, "m": "†"}, {"n": "Hyung Mi Lim", "lab": false, "m": ""}, {"n": "Seog-Young Yoon", "lab": false, "m": ""}, {"n": "Hyunseok Ko", "lab": true, "m": "*"}], "fig": 1}, {"id": 17, "date": "2022-06-28", "year": 2022, "title": "Dominant Effects of Epitaxial Strain on the Phase Control of Heterostructural (In x Ga1-x) 2O3 Alloys", "venue": "ACS Applied Electronic Materials", "jif": null, "q": null, "cites": 4, "role": "co-author", "pos": [4, 5], "doi": "https://doi.org/10.1021/acsaelm.2c00240", "authors": [{"n": "Han Uk Lee", "lab": false, "m": "†"}, {"n": "Hyeon Woo Kim", "lab": false, "m": ""}, {"n": "Giulio Fatti", "lab": true, "m": ""}, {"n": "Hyunseok Ko", "lab": true, "m": ""}, {"n": "Sung Beom Cho", "lab": false, "m": "*"}], "fig": 1}, {"id": 16, "date": "2021-03-01", "year": 2021, "title": "High-temperature viscosity analysis of aluminosilicate melts and the comparison to empirical models", "venue": "Journal of the Korean Ceramic Society", "jif": null, "q": null, "cites": 5, "role": "first", "pos": [1, 4], "doi": "https://doi.org/10.1007/s43207-020-00078-1", "authors": [{"n": "Hyunseok Ko", "lab": true, "m": "†"}, {"n": "Myounguk Kim", "lab": false, "m": ""}, {"n": "Sun-Min Park", "lab": false, "m": ""}, {"n": "Hyung Mi Lim", "lab": false, "m": ""}], "fig": 1}, {"id": 15, "date": "2021-01-01", "year": 2021, "title": "Heterostructural phase diagram of Ga2O3-based solid solution with Al2O3", "venue": "Journal of the European Ceramic Society", "jif": null, "q": null, "cites": 32, "role": "co-author", "pos": [2, 4], "doi": "https://doi.org/10.1016/j.jeurceramsoc.2020.08.067", "authors": [{"n": "Hyeon Woo Kim", "lab": false, "m": "†"}, {"n": "Hyunseok Ko", "lab": true, "m": ""}, {"n": "Yong-Chae Chung", "lab": false, "m": ""}, {"n": "Sung Beom Cho", "lab": false, "m": ""}], "fig": 1}, {"id": 14, "date": "2021-11-01", "year": 2021, "title": "Correlation between viscoelasticity of aluminosilicate melts and elastic properties of melt-spun fibers", "venue": "Journal of Non-Crystalline Solids", "jif": null, "q": null, "cites": 1, "role": "first", "pos": [1, 4], "doi": "https://doi.org/10.1016/j.jnoncrysol.2021.121110", "authors": [{"n": "Hyunseok Ko", "lab": true, "m": "†"}, {"n": "Myounguk Kim", "lab": false, "m": ""}, {"n": "Sun-Min Park", "lab": false, "m": ""}, {"n": "Hyung Mi Lim", "lab": false, "m": ""}], "fig": 1}, {"id": 13, "date": "2021-08-13", "year": 2021, "title": "Triboelectrification: backflow and stuck charges are key", "venue": "ACS Energy Letters", "jif": null, "q": null, "cites": null, "role": "first", "pos": [1, 5], "doi": "https://doi.org/10.1021/acsenergylett.1c01019", "authors": [{"n": "Hyunseok Ko", "lab": true, "m": "†"}, {"n": "Yeong-Won Lim", "lab": false, "m": "†"}, {"n": "Seungwu Han", "lab": false, "m": ""}, {"n": "Chang Kyu Jeong", "lab": false, "m": "*"}, {"n": "Sung Beom Cho", "lab": false, "m": "*"}], "sel": 1, "fig": 1}, {"id": 12, "date": "2020-06-01", "year": 2020, "title": "Development of novel refractory ceramic continuous fibers of fly ash and comparison of mechanical properties with those of E-glass fibers using the Weibull distribution", "venue": "Ceramics International", "jif": null, "q": null, "cites": 11, "role": "first", "pos": [2, 7], "doi": "https://doi.org/10.1016/j.ceramint.2020.02.102", "authors": [{"n": "Myounguk Kim", "lab": false, "m": "†"}, {"n": "Hyunseok Ko", "lab": true, "m": "†"}, {"n": "Taesang Kwon", "lab": false, "m": ""}, {"n": "Hwang-Cheol Bae", "lab": false, "m": ""}, {"n": "Cheol-Hoon Jang", "lab": false, "m": ""}, {"n": "Bi-Ung Heo", "lab": false, "m": ""}, {"n": "Sun-Min Park", "lab": false, "m": ""}], "fig": 1}, {"id": 11, "date": "2020-10-01", "year": 2020, "title": "Effects of additives in colloidal silica based inorganic-hybrid binder for mineral wool insulation boards", "venue": "Journal of Asian Ceramic Societies", "jif": null, "q": null, "cites": 8, "role": "first", "pos": [1, 3], "doi": "https://doi.org/10.1080/21870764.2020.1842118", "authors": [{"n": "Hyunseok Ko", "lab": true, "m": "†"}, {"n": "Hee-Seon Lee", "lab": false, "m": ""}, {"n": "Hyung Mi Lim", "lab": false, "m": ""}], "fig": 1}, {"id": 10, "date": "2020-01-31", "year": 2020, "title": "Physiochemical effects of SiC and ZrO2 particle fillers on the properties of enamel coatings", "venue": "Coatings", "jif": null, "q": null, "cites": 4, "role": "first", "pos": [1, 5], "doi": "https://doi.org/10.3390/coatings10020121", "authors": [{"n": "Hyunseok Ko", "lab": true, "m": "†"}, {"n": "Sung-Jin Lee", "lab": false, "m": ""}, {"n": "Jae-Jong Oh", "lab": false, "m": ""}, {"n": "Seungho Lee", "lab": false, "m": "*"}, {"n": "Hyung Mi Lim", "lab": false, "m": "†*"}], "fig": 1}, {"id": 9, "date": "2019-11-01", "year": 2019, "title": "Effects of chemical composition of Ca (OH) 2 and precursors on the properties of fast-curing geopolymers", "venue": "Korean Journal of Materials Research", "jif": null, "q": null, "cites": 3, "role": "first", "pos": [1, 3], "doi": "https://doi.org/10.3740/mrsk.2019.29.11.690", "authors": [{"n": "Hyunseok Ko", "lab": true, "m": "†"}, {"n": "Jungyoung Noh", "lab": false, "m": ""}, {"n": "Hyung Mi Lim", "lab": false, "m": ""}], "fig": 1}, {"id": 8, "date": "2019-06-15", "year": 2019, "title": "Development of High Performance Exterior Ceramic Fiber Insulator with Recycled Materials", "venue": "Magazine of RCR", "jif": null, "q": null, "cites": null, "role": "co-author", "pos": [4, 5], "doi": "https://koreascience.kr/article/JAKO201929565689155.page", "authors": [{"n": "Hun Song", "lab": false, "m": "†"}, {"n": "Hyung Mi Lim", "lab": false, "m": ""}, {"n": "Sun-Min Park", "lab": false, "m": ""}, {"n": "Hyunseok Ko", "lab": true, "m": ""}, {"n": "Han-Bom Kim", "lab": false, "m": ""}], "fig": 1}, {"id": 7, "date": "2019-08-01", "year": 2019, "title": "Synergistic effects of amine-modified ammonium polyphosphate on curing behaviors and flame retardation properties of epoxy composites", "venue": "Composites Part B: Engineering", "jif": null, "q": null, "cites": 105, "role": "co-author", "pos": [2, 3], "doi": "https://doi.org/10.1016/j.compositesb.2019.04.016", "authors": [{"n": "Myounguk  Kim", "lab": false, "m": "†"}, {"n": "Hyunseok Ko", "lab": true, "m": ""}, {"n": "Sun-Min Park", "lab": false, "m": ""}], "fig": 1}, {"id": 6, "date": "2017-09-14", "year": 2017, "title": "Cs diffusion in SiC high-energy grain boundaries", "venue": "Journal of Applied Physics", "jif": null, "q": null, "cites": 5, "role": "first", "pos": [1, 3], "doi": "https://doi.org/10.1063/1.4989389", "authors": [{"n": "Hyunseok Ko", "lab": true, "m": "†"}, {"n": "Izabela zlufarska", "lab": false, "m": ""}, {"n": "Dane Morgan", "lab": false, "m": ""}], "fig": 1}, {"id": 4, "date": "2017-08-01", "year": 2017, "title": "Optimization of self-interstitial clusters in 3C-SiC with genetic algorithm", "venue": "Journal of Nuclear Materials", "jif": null, "q": null, "cites": 17, "role": "first", "pos": [1, 4], "doi": "https://doi.org/10.1016/j.jnucmat.2017.05.015", "authors": [{"n": "Hyunseok Ko", "lab": true, "m": "†"}, {"n": "Amy Kaczmarowski", "lab": false, "m": ""}, {"n": "Izabela Szlufarska", "lab": false, "m": ""}, {"n": "Dane Morgan", "lab": false, "m": ""}], "fig": 1}, {"id": 3, "date": "2016-08-01", "year": 2016, "title": "Ag diffusion in SiC high-energy grain boundaries: Kinetic Monte Carlo study with first-principle calculations", "venue": "Computational Materials Science", "jif": null, "q": null, "cites": 32, "role": "first", "pos": [1, 4], "doi": "https://doi.org/10.1016/j.commatsci.2016.04.027", "authors": [{"n": "Hyunseok Ko", "lab": true, "m": "†"}, {"n": "Jie Deng", "lab": false, "m": ""}, {"n": "Izabela Szlufarska", "lab": false, "m": ""}, {"n": "Dane Morgan", "lab": false, "m": ""}], "fig": 1}, {"id": 2, "date": "2016-04-01", "year": 2016, "title": "Effect of carbon ion irradiation on Ag diffusion in SiC", "venue": "Journal of Nuclear Materials", "jif": null, "q": null, "cites": 19, "role": "first", "pos": [2, 9], "doi": "https://doi.org/10.1016/j.jnucmat.2015.11.017", "authors": [{"n": "Bin Leng", "lab": false, "m": "†"}, {"n": "Hyunseok Ko", "lab": true, "m": "†"}, {"n": "Tyler J. Gerczak", "lab": false, "m": ""}, {"n": "Jie Deng", "lab": false, "m": ""}, {"n": "Andrew J. Giordani", "lab": false, "m": ""}, {"n": "Jerry L. Hunter Jr", "lab": false, "m": ""}, {"n": "Dane Morgan", "lab": false, "m": ""}, {"n": "Izabela Szlufarska", "lab": false, "m": ""}, {"n": "Kumar Sridharan", "lab": false, "m": ""}], "fig": 1}, {"id": 64, "date": "2015-12-01", "year": 2015, "title": "Grain boundary diffusion of Ag through polycrystalline SiC in TRISO fuel particles", "venue": "Journal of Nuclear Materials", "jif": null, "q": null, "cites": 21, "role": "co-author", "pos": [2, 5], "doi": "https://doi.org/10.1016/j.jnucmat.2015.09.054", "authors": [{"n": "Jie Deng", "lab": false, "m": "†"}, {"n": "Hyunseok Ko", "lab": true, "m": ""}, {"n": "Paul Demkowicz", "lab": false, "m": ""}, {"n": "Dane Morgan", "lab": false, "m": ""}, {"n": "Izabela Szlufarska", "lab": false, "m": ""}], "fig": 1}]</script>
-<script src="assets/js/site.js?v=20261017b"></script>
+<script src="assets/js/site.js?v=20261017c"></script>
 </body>
 </html>

diff --git a/assets/js/site.js b/assets/js/site.js
@@ -134,7 +134,7 @@
       + ' · <b>Published</b> ' + p.date;
 
     return '<div class="entry">'
-      + '<div class="thumb">'+(p.fig ? '<img src="assets/img/pub/'+p.id+'.jpg?v=20261017b" alt="" loading="lazy">' : thumb(p.id))+'</div>'
+      + '<div class="thumb">'+(p.fig ? '<img src="assets/img/pub/'+p.id+'.jpg?v=20261017c" alt="" loading="lazy">' : thumb(p.id))+'</div>'
       + '<div>'
       +   '<div class="entry-title"><span class="pub-no">'+p.year+'-'+p.no+'</span>'+p.title+'</div>'
       +   '<div class="entry-authors">'+authors+'</div>'
